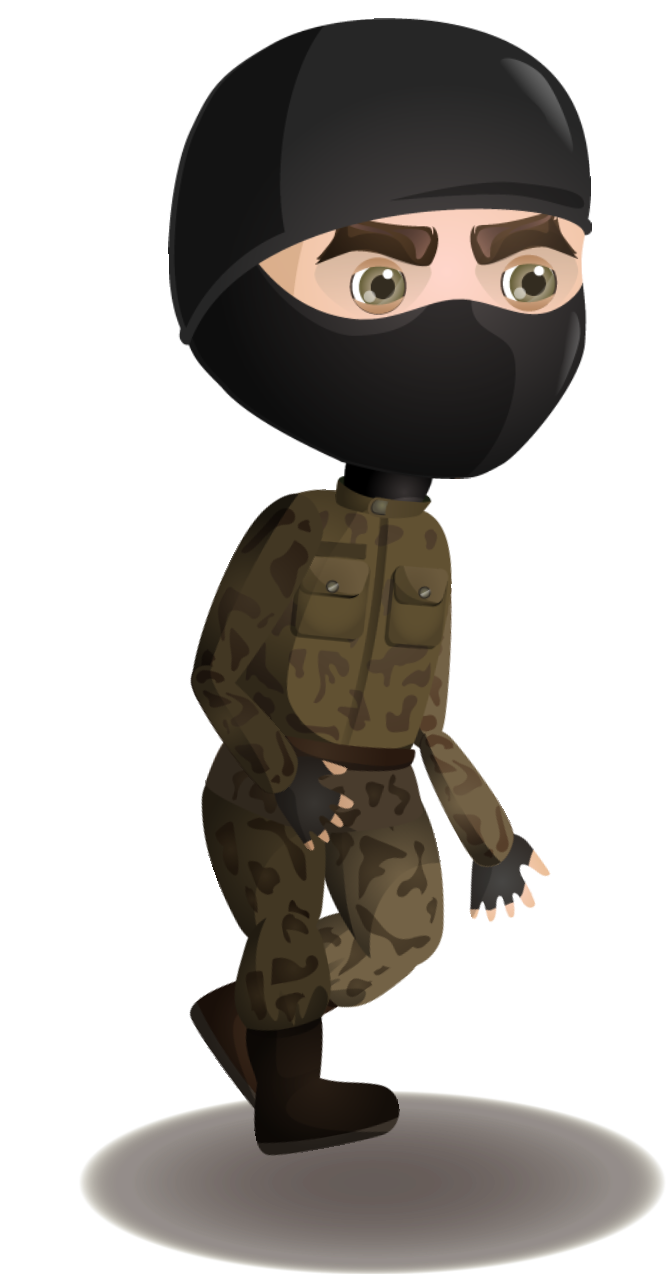
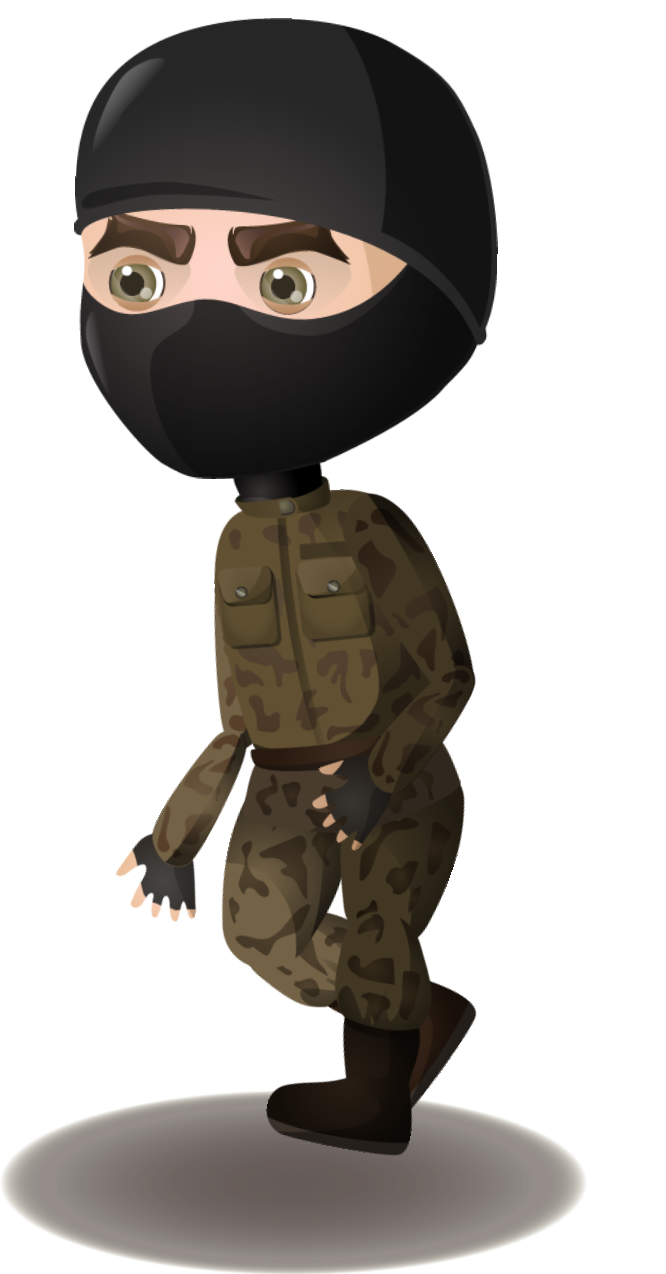
bug fixes

diff --git a/models/character.class.js b/models/character.class.js
@@ -39,11 +39,13 @@ class Character extends MovableObject {
       this.walking_sound.pause();
       if (this.world.keyboard.RIGHT && this.x < this.world.level.level_end_x) {
         this.moveRight();
+        this.otherDirection = false;
         this.walking_sound.play();
       }
       if (this.world.keyboard.LEFT && this.x > 0) {
         this.moveLeft();
         this.walking_sound.play();
+        this.otherDirection = true;
       }
 
       if (

diff --git a/index.html b/index.html
@@ -5,6 +5,7 @@
     <meta http-equiv="X-UA-Compatible" content="IE=edge" />
     <meta name="viewport" content="width=device-width, initial-scale=1.0" />
     <link rel="stylesheet" href="style.css" />
+    <link rel="icon" type="image/png" href="img/logo/favicon.png" />
 
     <script src="models/movable-object.class.js"></script>
     <script src="models/character.class.js"></script>

diff --git a/models/movable-object.class.js b/models/movable-object.class.js
@@ -54,13 +54,10 @@ class MovableObject {
 
   moveRight() {
     this.x += this.speed;
-    this.otherDirection = false;
-    this.walking_sound.play();
   }
 
   moveLeft() {
     this.x -= this.speed;
-    this.otherDirection = true;
   }
 
   jump() {

diff --git a/models/cloud.class.js b/models/cloud.class.js
@@ -11,6 +11,8 @@ class cloud extends MovableObject {
   }
 
   animate() {
-    this.moveLeft();
+    setInterval(() => {
+      this.moveLeft();
+    }, 1000 / 60);
   }
 }
